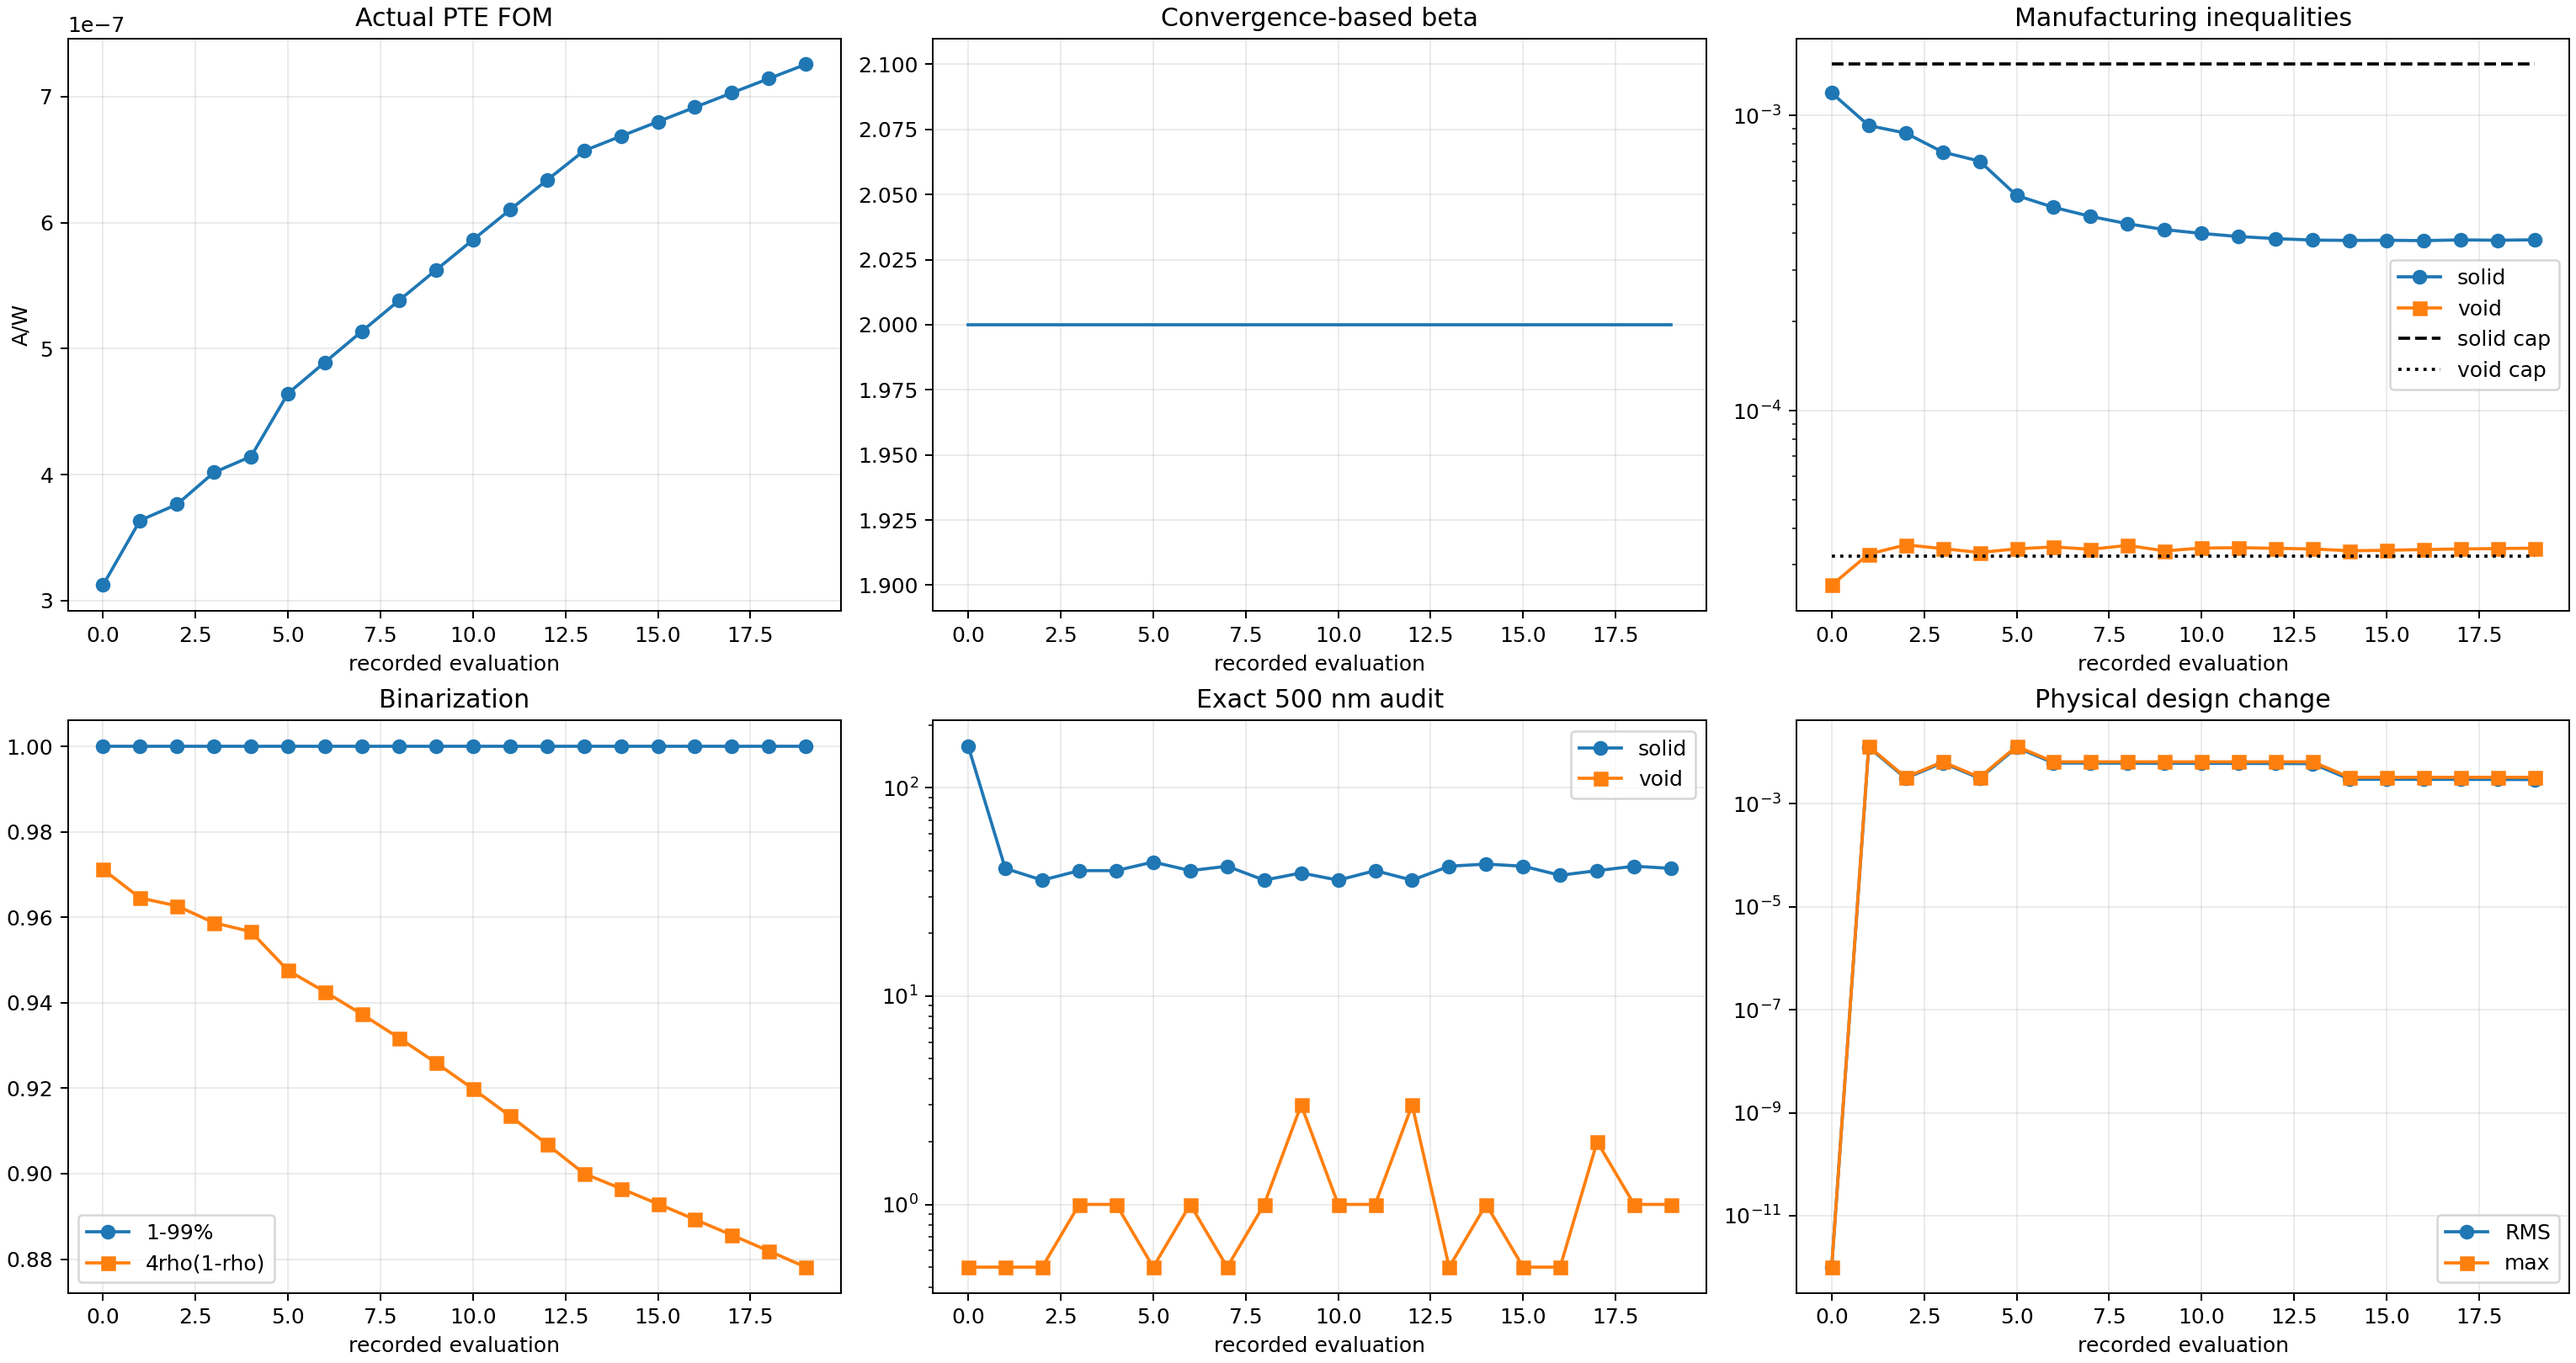
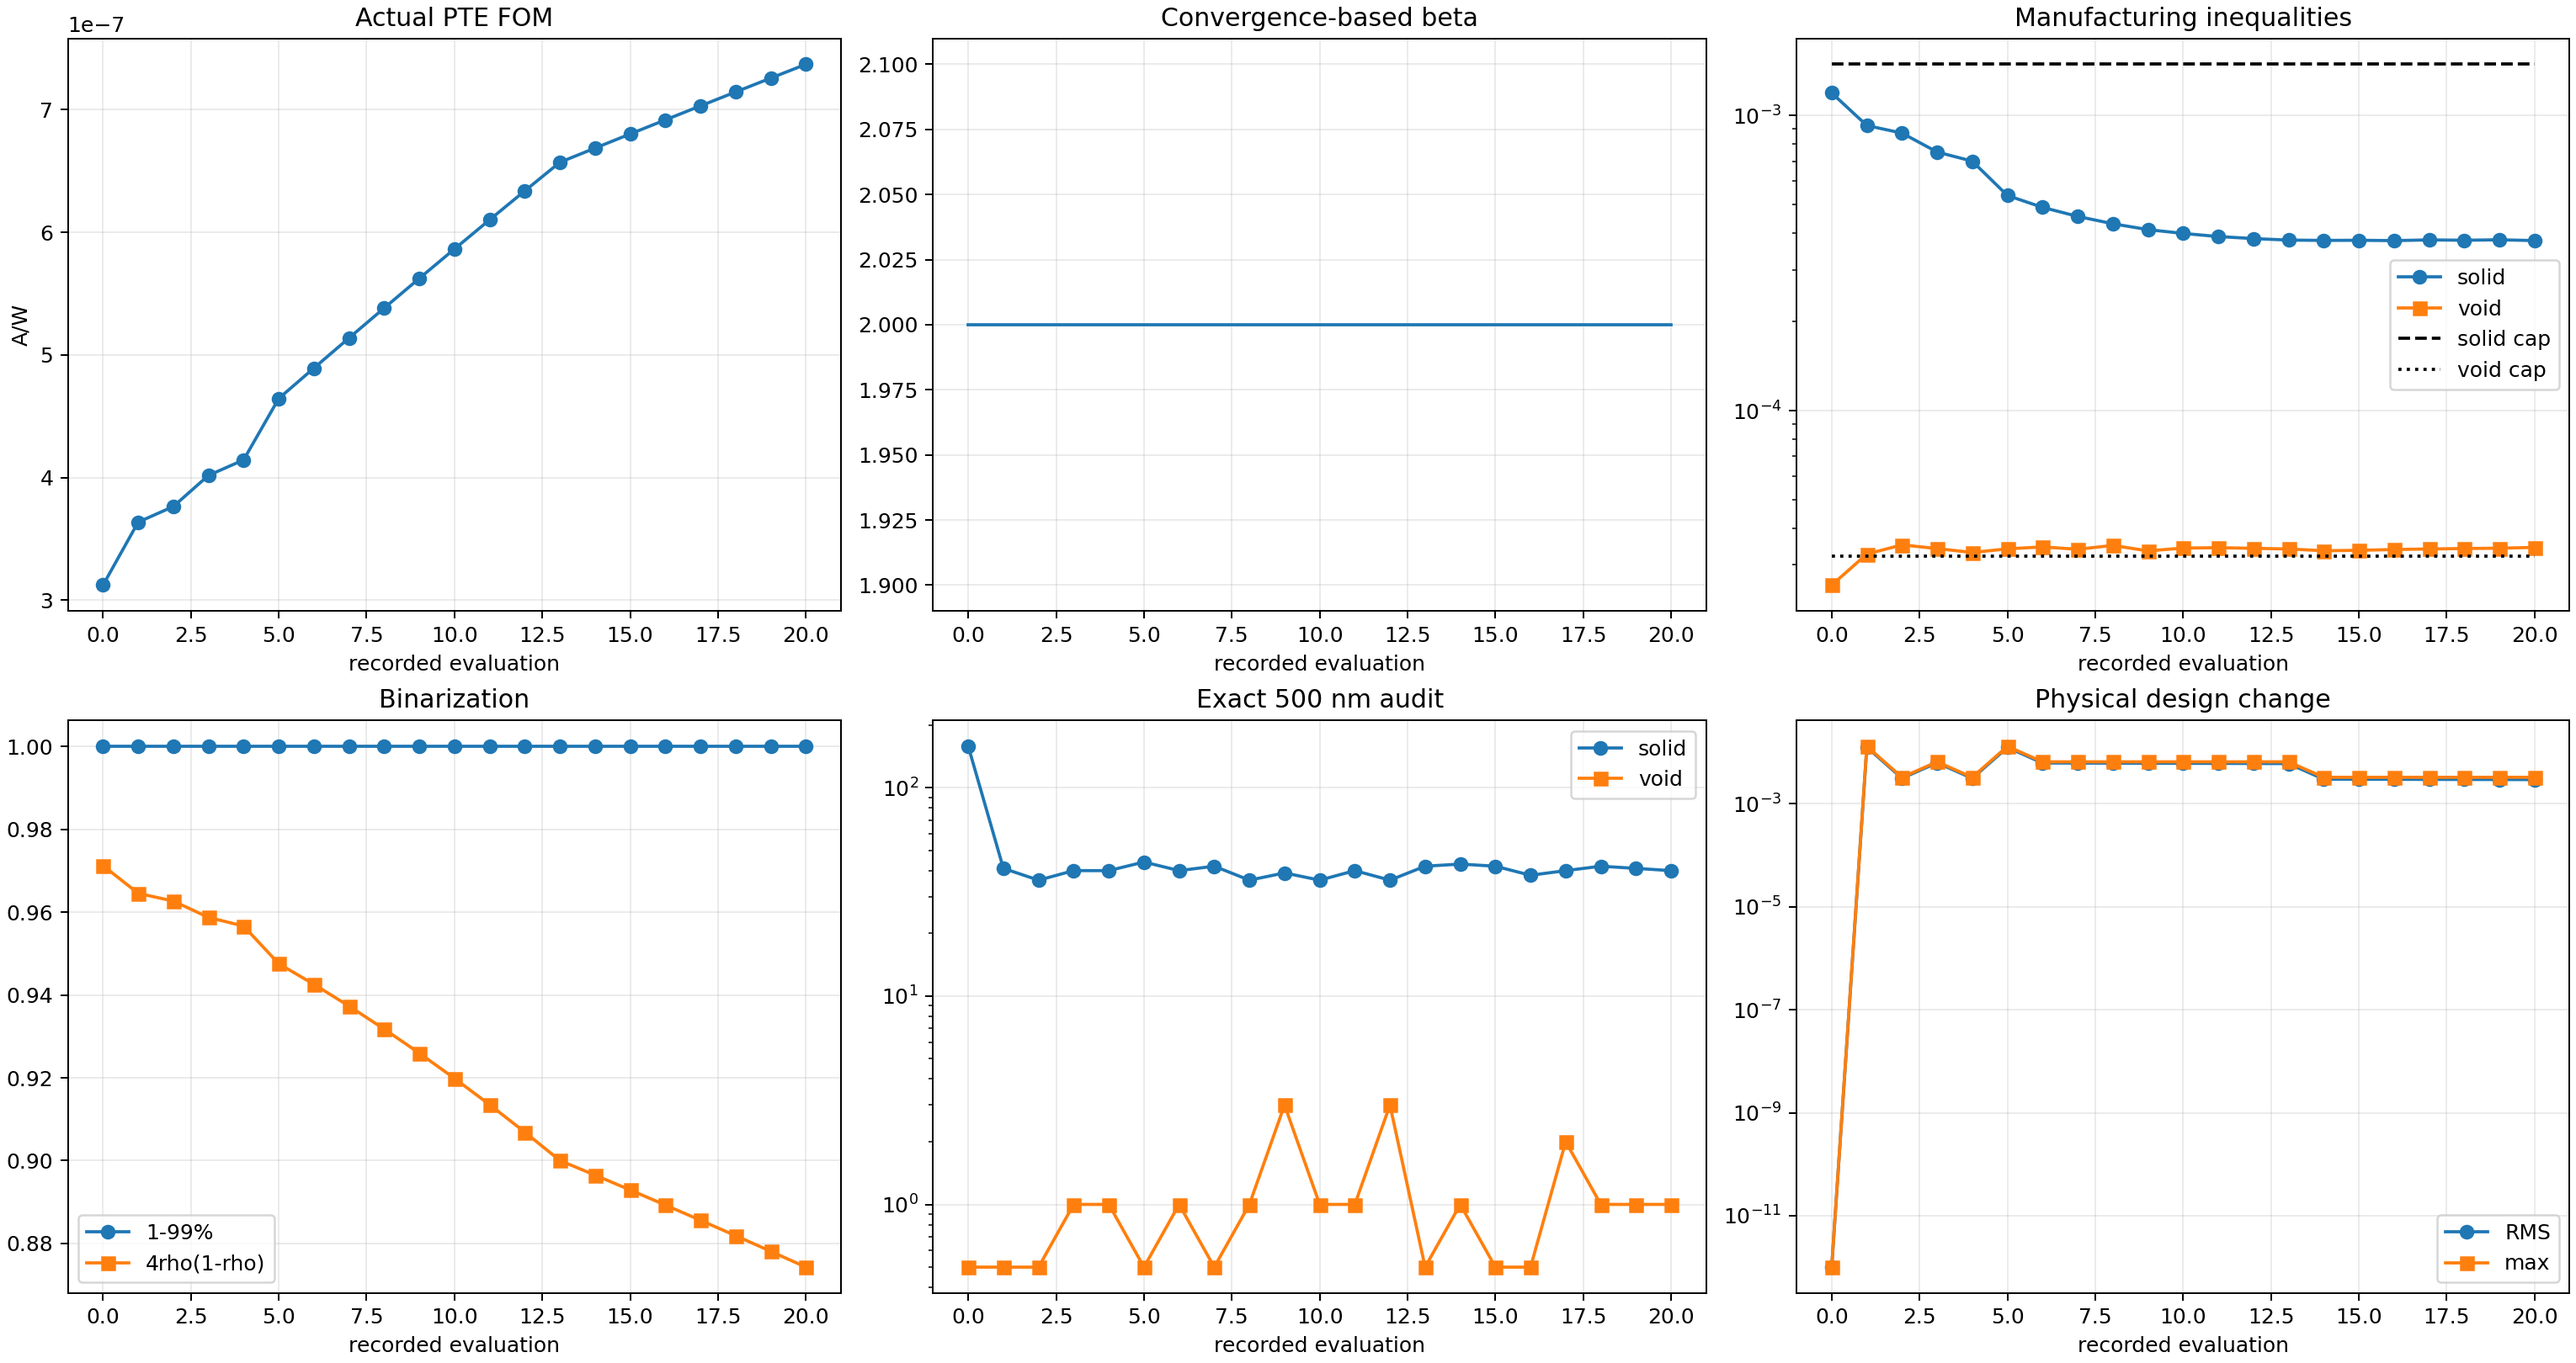
Record Run 005 run008_Ea_b002_s020_g020_accepted_mma

diff --git a/photothermal_pte/optimization_runs/run_008_corrected_Ea_objective_first_constrained/results/OPTIMIZATION_REPORT.md b/photothermal_pte/optimization_runs/run_008_corrected_Ea_objective_first_constrained/results/OPTIMIZATION_REPORT.md
@@ -2,12 +2,12 @@
 
 Status: `RUNNING_CORRECTED_EA_OBJECTIVE_FIRST_CONSTRAINED_OPTIMIZATION`
 
-Current stage: beta=2, accepted stage iteration=19, global iteration=19.
+Current stage: beta=2, accepted stage iteration=20, global iteration=20.
 
 Constraint contract: `soft_disk_opening_500nm_from_iteration_zero_v5`.
 
-Actual FOM: `7.256852888335e-07 A/W`. Fixed-cap solid/void constraints: `3.791391e-04` / `3.419629e-05` with caps `1.490220e-03` / `3.204288e-05`.
+Actual FOM: `7.369348661978e-07 A/W`. Fixed-cap solid/void constraints: `3.768249e-04` / `3.440313e-05` with caps `1.490220e-03` / `3.204288e-05`.
 
-Exact 500 nm bad cells: solid `41`, void `1`. Stage convergence: `False` (recent FOM/density changes have not plateaued).
+Exact 500 nm bad cells: solid `40`, void `1`. Stage convergence: `False` (recent FOM/density changes have not plateaued).
 
 Beta advances only after the stage FOM/density plateau. The run is not complete until the projected-binary and exact 500 nm gates pass and a fresh thresholded-binary GPU/CUDA evaluation succeeds.
